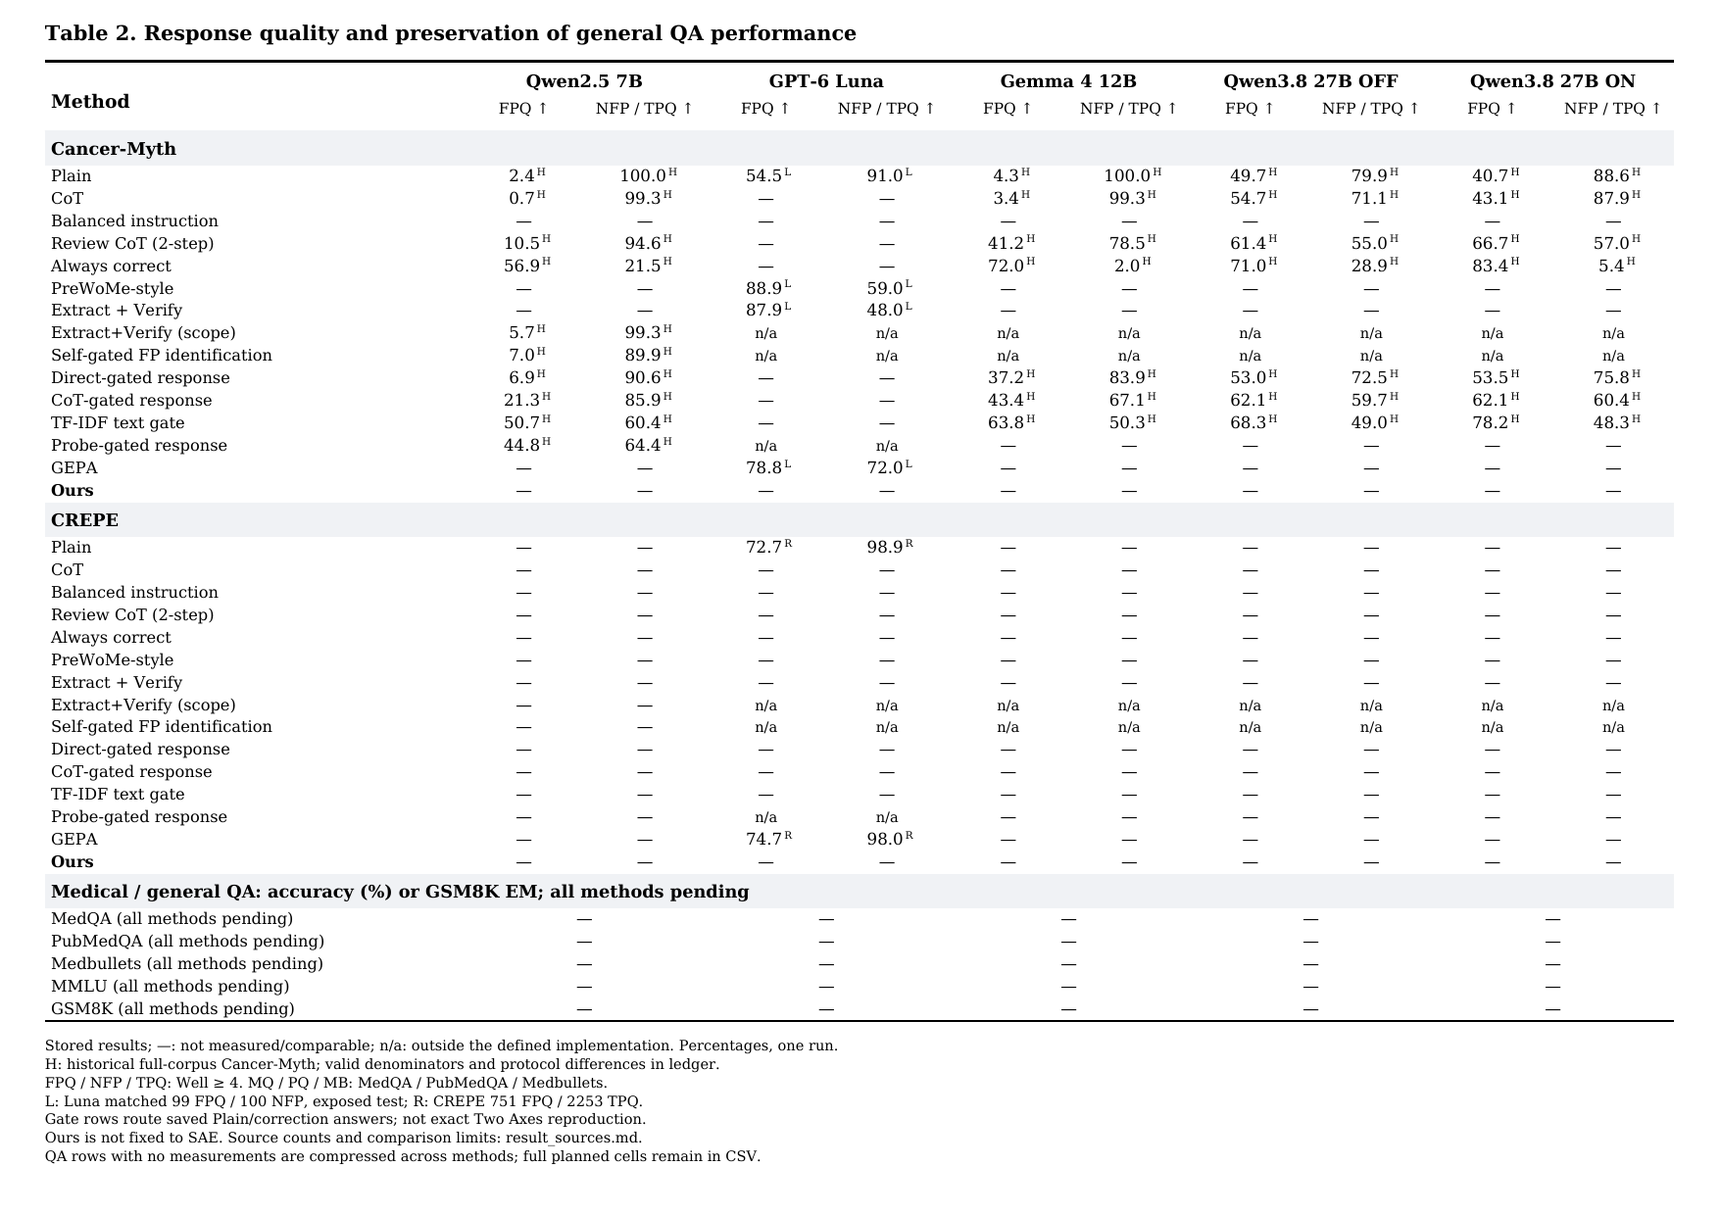
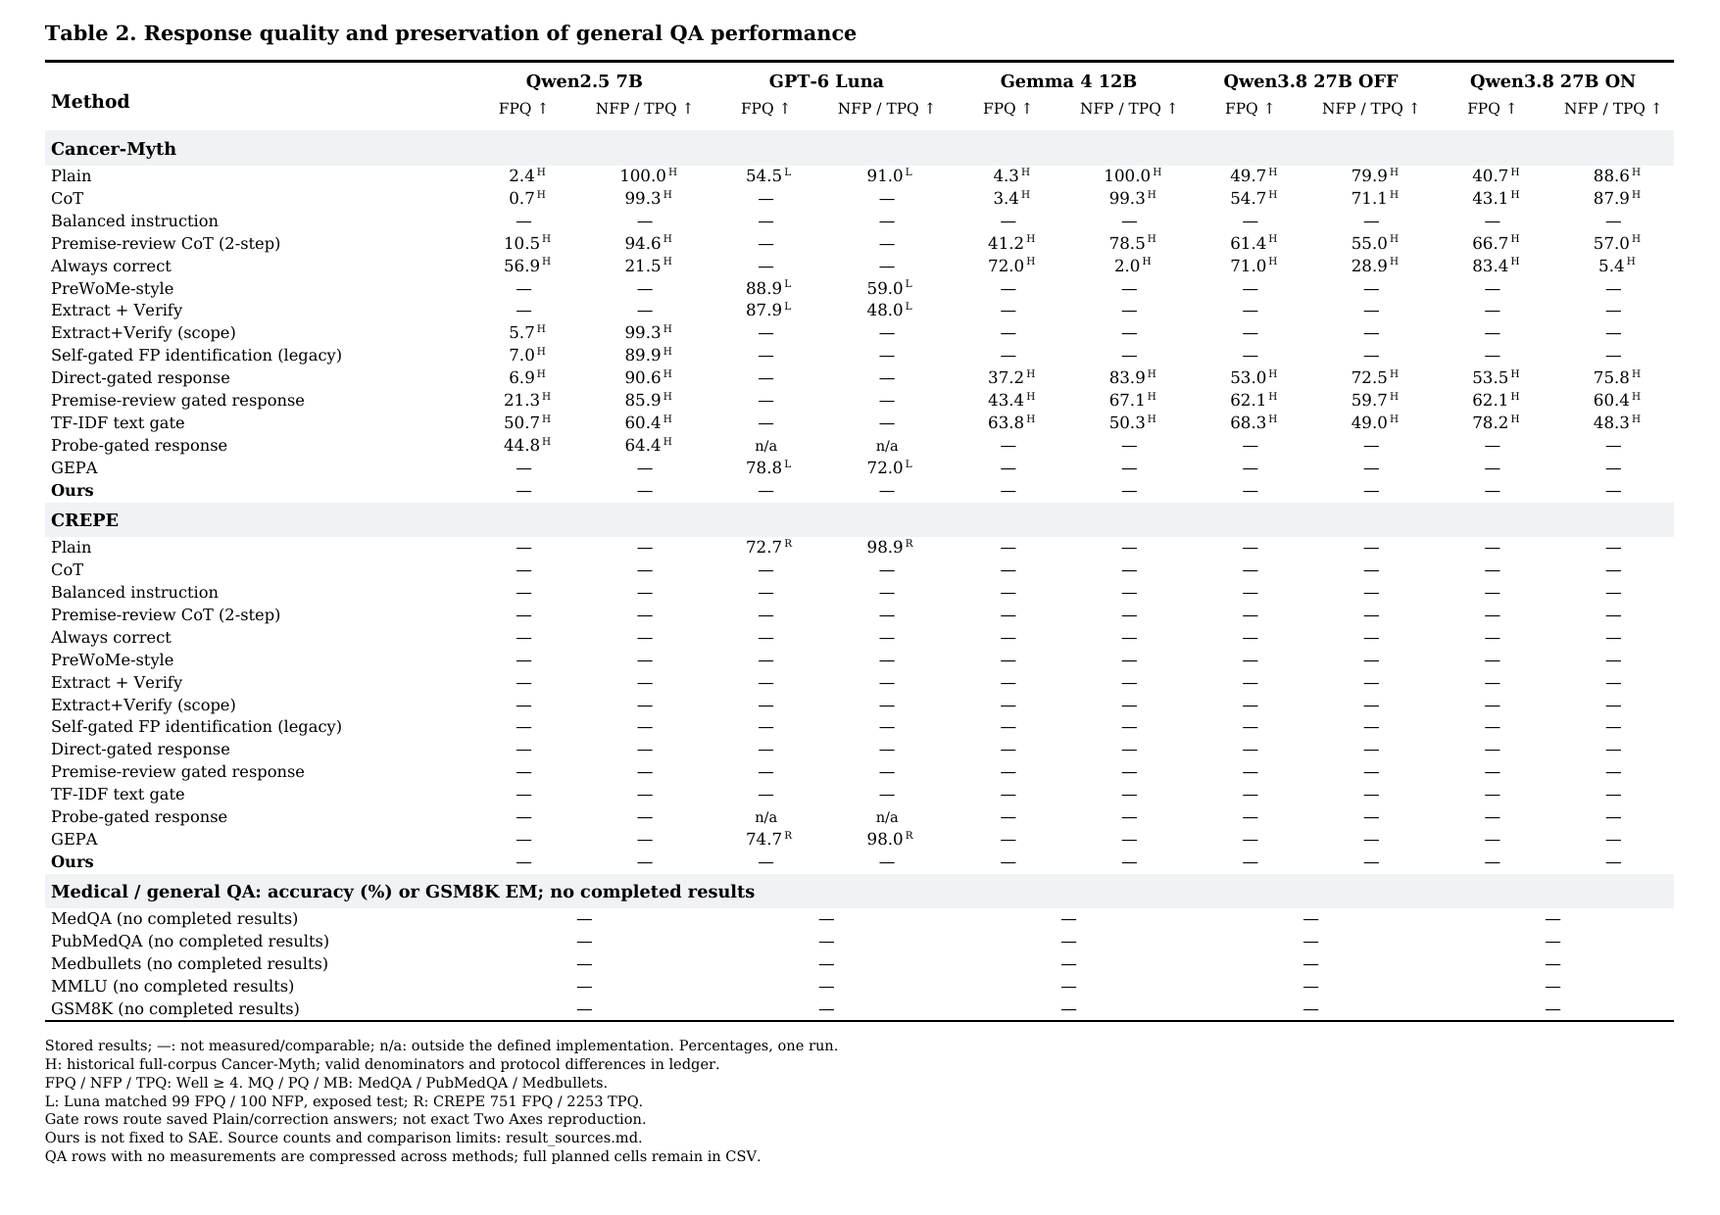
Clarify premise-review routing and mark unmeasured variants correctly

diff --git a/docs/reviews/paper_tables_2026-10-06/table2.tex b/docs/reviews/paper_tables_2026-10-06/table2.tex
@@ -13,14 +13,14 @@
 Plain & 2.4\textsuperscript{H} & 100.0\textsuperscript{H} & 54.5\textsuperscript{L} & 91.0\textsuperscript{L} & 4.3\textsuperscript{H} & 100.0\textsuperscript{H} & 49.7\textsuperscript{H} & 79.9\textsuperscript{H} & 40.7\textsuperscript{H} & 88.6\textsuperscript{H} \\
 CoT & 0.7\textsuperscript{H} & 99.3\textsuperscript{H} & \textemdash & \textemdash & 3.4\textsuperscript{H} & 99.3\textsuperscript{H} & 54.7\textsuperscript{H} & 71.1\textsuperscript{H} & 43.1\textsuperscript{H} & 87.9\textsuperscript{H} \\
 Balanced instruction & \textemdash & \textemdash & \textemdash & \textemdash & \textemdash & \textemdash & \textemdash & \textemdash & \textemdash & \textemdash \\
-Review CoT (2-step) & 10.5\textsuperscript{H} & 94.6\textsuperscript{H} & \textemdash & \textemdash & 41.2\textsuperscript{H} & 78.5\textsuperscript{H} & 61.4\textsuperscript{H} & 55.0\textsuperscript{H} & 66.7\textsuperscript{H} & 57.0\textsuperscript{H} \\
+Premise-review CoT (2-step) & 10.5\textsuperscript{H} & 94.6\textsuperscript{H} & \textemdash & \textemdash & 41.2\textsuperscript{H} & 78.5\textsuperscript{H} & 61.4\textsuperscript{H} & 55.0\textsuperscript{H} & 66.7\textsuperscript{H} & 57.0\textsuperscript{H} \\
 Always correct & 56.9\textsuperscript{H} & 21.5\textsuperscript{H} & \textemdash & \textemdash & 72.0\textsuperscript{H} & 2.0\textsuperscript{H} & 71.0\textsuperscript{H} & 28.9\textsuperscript{H} & 83.4\textsuperscript{H} & 5.4\textsuperscript{H} \\
 PreWoMe-style & \textemdash & \textemdash & 88.9\textsuperscript{L} & 59.0\textsuperscript{L} & \textemdash & \textemdash & \textemdash & \textemdash & \textemdash & \textemdash \\
 Extract + Verify & \textemdash & \textemdash & 87.9\textsuperscript{L} & 48.0\textsuperscript{L} & \textemdash & \textemdash & \textemdash & \textemdash & \textemdash & \textemdash \\
-Extract+Verify (scope) & 5.7\textsuperscript{H} & 99.3\textsuperscript{H} & n/a & n/a & n/a & n/a & n/a & n/a & n/a & n/a \\
-Self-gated FP identification & 7.0\textsuperscript{H} & 89.9\textsuperscript{H} & n/a & n/a & n/a & n/a & n/a & n/a & n/a & n/a \\
+Extract+Verify (scope) & 5.7\textsuperscript{H} & 99.3\textsuperscript{H} & \textemdash & \textemdash & \textemdash & \textemdash & \textemdash & \textemdash & \textemdash & \textemdash \\
+Self-gated FP identification (legacy) & 7.0\textsuperscript{H} & 89.9\textsuperscript{H} & \textemdash & \textemdash & \textemdash & \textemdash & \textemdash & \textemdash & \textemdash & \textemdash \\
 Direct-gated response & 6.9\textsuperscript{H} & 90.6\textsuperscript{H} & \textemdash & \textemdash & 37.2\textsuperscript{H} & 83.9\textsuperscript{H} & 53.0\textsuperscript{H} & 72.5\textsuperscript{H} & 53.5\textsuperscript{H} & 75.8\textsuperscript{H} \\
-CoT-gated response & 21.3\textsuperscript{H} & 85.9\textsuperscript{H} & \textemdash & \textemdash & 43.4\textsuperscript{H} & 67.1\textsuperscript{H} & 62.1\textsuperscript{H} & 59.7\textsuperscript{H} & 62.1\textsuperscript{H} & 60.4\textsuperscript{H} \\
+Premise-review gated response & 21.3\textsuperscript{H} & 85.9\textsuperscript{H} & \textemdash & \textemdash & 43.4\textsuperscript{H} & 67.1\textsuperscript{H} & 62.1\textsuperscript{H} & 59.7\textsuperscript{H} & 62.1\textsuperscript{H} & 60.4\textsuperscript{H} \\
 TF-IDF text gate & 50.7\textsuperscript{H} & 60.4\textsuperscript{H} & \textemdash & \textemdash & 63.8\textsuperscript{H} & 50.3\textsuperscript{H} & 68.3\textsuperscript{H} & 49.0\textsuperscript{H} & 78.2\textsuperscript{H} & 48.3\textsuperscript{H} \\
 Probe-gated response & 44.8\textsuperscript{H} & 64.4\textsuperscript{H} & n/a & n/a & \textemdash & \textemdash & \textemdash & \textemdash & \textemdash & \textemdash \\
 GEPA & \textemdash & \textemdash & 78.8\textsuperscript{L} & 72.0\textsuperscript{L} & \textemdash & \textemdash & \textemdash & \textemdash & \textemdash & \textemdash \\
@@ -30,25 +30,25 @@ GEPA & \textemdash & \textemdash & 78.8\textsuperscript{L} & 72.0\textsuperscrip
 Plain & \textemdash & \textemdash & 72.7\textsuperscript{R} & 98.9\textsuperscript{R} & \textemdash & \textemdash & \textemdash & \textemdash & \textemdash & \textemdash \\
 CoT & \textemdash & \textemdash & \textemdash & \textemdash & \textemdash & \textemdash & \textemdash & \textemdash & \textemdash & \textemdash \\
 Balanced instruction & \textemdash & \textemdash & \textemdash & \textemdash & \textemdash & \textemdash & \textemdash & \textemdash & \textemdash & \textemdash \\
-Review CoT (2-step) & \textemdash & \textemdash & \textemdash & \textemdash & \textemdash & \textemdash & \textemdash & \textemdash & \textemdash & \textemdash \\
+Premise-review CoT (2-step) & \textemdash & \textemdash & \textemdash & \textemdash & \textemdash & \textemdash & \textemdash & \textemdash & \textemdash & \textemdash \\
 Always correct & \textemdash & \textemdash & \textemdash & \textemdash & \textemdash & \textemdash & \textemdash & \textemdash & \textemdash & \textemdash \\
 PreWoMe-style & \textemdash & \textemdash & \textemdash & \textemdash & \textemdash & \textemdash & \textemdash & \textemdash & \textemdash & \textemdash \\
 Extract + Verify & \textemdash & \textemdash & \textemdash & \textemdash & \textemdash & \textemdash & \textemdash & \textemdash & \textemdash & \textemdash \\
-Extract+Verify (scope) & \textemdash & \textemdash & n/a & n/a & n/a & n/a & n/a & n/a & n/a & n/a \\
-Self-gated FP identification & \textemdash & \textemdash & n/a & n/a & n/a & n/a & n/a & n/a & n/a & n/a \\
+Extract+Verify (scope) & \textemdash & \textemdash & \textemdash & \textemdash & \textemdash & \textemdash & \textemdash & \textemdash & \textemdash & \textemdash \\
+Self-gated FP identification (legacy) & \textemdash & \textemdash & \textemdash & \textemdash & \textemdash & \textemdash & \textemdash & \textemdash & \textemdash & \textemdash \\
 Direct-gated response & \textemdash & \textemdash & \textemdash & \textemdash & \textemdash & \textemdash & \textemdash & \textemdash & \textemdash & \textemdash \\
-CoT-gated response & \textemdash & \textemdash & \textemdash & \textemdash & \textemdash & \textemdash & \textemdash & \textemdash & \textemdash & \textemdash \\
+Premise-review gated response & \textemdash & \textemdash & \textemdash & \textemdash & \textemdash & \textemdash & \textemdash & \textemdash & \textemdash & \textemdash \\
 TF-IDF text gate & \textemdash & \textemdash & \textemdash & \textemdash & \textemdash & \textemdash & \textemdash & \textemdash & \textemdash & \textemdash \\
 Probe-gated response & \textemdash & \textemdash & n/a & n/a & \textemdash & \textemdash & \textemdash & \textemdash & \textemdash & \textemdash \\
 GEPA & \textemdash & \textemdash & 74.7\textsuperscript{R} & 98.0\textsuperscript{R} & \textemdash & \textemdash & \textemdash & \textemdash & \textemdash & \textemdash \\
 \textbf{Ours} & \textemdash & \textemdash & \textemdash & \textemdash & \textemdash & \textemdash & \textemdash & \textemdash & \textemdash & \textemdash \\
 \midrule
-\multicolumn{11}{l}{\textbf{Medical / general QA: accuracy (\%) or GSM8K EM; all methods pending}} \\
-MedQA (all methods pending) & \multicolumn{2}{c}{\textemdash} & \multicolumn{2}{c}{\textemdash} & \multicolumn{2}{c}{\textemdash} & \multicolumn{2}{c}{\textemdash} & \multicolumn{2}{c}{\textemdash} \\
-PubMedQA (all methods pending) & \multicolumn{2}{c}{\textemdash} & \multicolumn{2}{c}{\textemdash} & \multicolumn{2}{c}{\textemdash} & \multicolumn{2}{c}{\textemdash} & \multicolumn{2}{c}{\textemdash} \\
-Medbullets (all methods pending) & \multicolumn{2}{c}{\textemdash} & \multicolumn{2}{c}{\textemdash} & \multicolumn{2}{c}{\textemdash} & \multicolumn{2}{c}{\textemdash} & \multicolumn{2}{c}{\textemdash} \\
-MMLU (all methods pending) & \multicolumn{2}{c}{\textemdash} & \multicolumn{2}{c}{\textemdash} & \multicolumn{2}{c}{\textemdash} & \multicolumn{2}{c}{\textemdash} & \multicolumn{2}{c}{\textemdash} \\
-GSM8K (all methods pending) & \multicolumn{2}{c}{\textemdash} & \multicolumn{2}{c}{\textemdash} & \multicolumn{2}{c}{\textemdash} & \multicolumn{2}{c}{\textemdash} & \multicolumn{2}{c}{\textemdash} \\
+\multicolumn{11}{l}{\textbf{Medical / general QA: accuracy (\%) or GSM8K EM; no completed results}} \\
+MedQA (no completed results) & \multicolumn{2}{c}{\textemdash} & \multicolumn{2}{c}{\textemdash} & \multicolumn{2}{c}{\textemdash} & \multicolumn{2}{c}{\textemdash} & \multicolumn{2}{c}{\textemdash} \\
+PubMedQA (no completed results) & \multicolumn{2}{c}{\textemdash} & \multicolumn{2}{c}{\textemdash} & \multicolumn{2}{c}{\textemdash} & \multicolumn{2}{c}{\textemdash} & \multicolumn{2}{c}{\textemdash} \\
+Medbullets (no completed results) & \multicolumn{2}{c}{\textemdash} & \multicolumn{2}{c}{\textemdash} & \multicolumn{2}{c}{\textemdash} & \multicolumn{2}{c}{\textemdash} & \multicolumn{2}{c}{\textemdash} \\
+MMLU (no completed results) & \multicolumn{2}{c}{\textemdash} & \multicolumn{2}{c}{\textemdash} & \multicolumn{2}{c}{\textemdash} & \multicolumn{2}{c}{\textemdash} & \multicolumn{2}{c}{\textemdash} \\
+GSM8K (no completed results) & \multicolumn{2}{c}{\textemdash} & \multicolumn{2}{c}{\textemdash} & \multicolumn{2}{c}{\textemdash} & \multicolumn{2}{c}{\textemdash} & \multicolumn{2}{c}{\textemdash} \\
 \bottomrule
 \end{tabular}}
 \caption{Table 2. Response quality and preservation of general QA performance. Stored results; \textemdash: not measured/comparable; n/a: outside the defined implementation. Percentages, one run. H: historical full-corpus Cancer-Myth; valid denominators and protocol differences in ledger. FPQ / NFP / TPQ: Well $\geq$ 4. MQ / PQ / MB: MedQA / PubMedQA / Medbullets. L: Luna matched 99 FPQ / 100 NFP, exposed test; R: CREPE 751 FPQ / 2253 TPQ. Gate rows route saved Plain/correction answers; not exact Two Axes reproduction. Ours is not fixed to SAE. Source counts and comparison limits: result\_sources.md. QA rows with no measurements are compressed across methods; full planned cells remain in CSV.}

diff --git a/docs/reviews/paper_tables_2026-10-06/table1.tex b/docs/reviews/paper_tables_2026-10-06/table1.tex
@@ -11,7 +11,7 @@
 \midrule
 \multicolumn{11}{l}{\textbf{Cancer-Myth}} \\
 Direct gate & 7.0\textsuperscript{H} & 10.7\textsuperscript{H} & \textemdash & \textemdash & 40.5\textsuperscript{H} & 16.1\textsuperscript{H} & 26.1\textsuperscript{H} & 16.1\textsuperscript{H} & 44.1\textsuperscript{H} & 21.5\textsuperscript{H} \\
-Review CoT gate (2-step) & 29.5\textsuperscript{H} & 16.1\textsuperscript{H} & \textemdash & \textemdash & 51.3\textsuperscript{H} & 32.9\textsuperscript{H} & 57.5\textsuperscript{H} & 35.6\textsuperscript{H} & 61.4\textsuperscript{H} & 38.3\textsuperscript{H} \\
+Premise-review CoT gate & 29.5\textsuperscript{H} & 16.1\textsuperscript{H} & \textemdash & \textemdash & 51.3\textsuperscript{H} & 32.9\textsuperscript{H} & 57.5\textsuperscript{H} & 35.6\textsuperscript{H} & 61.4\textsuperscript{H} & 38.3\textsuperscript{H} \\
 Direct + scope protection & \textemdash & \textemdash & \textemdash & \textemdash & \textemdash & \textemdash & \textemdash & \textemdash & \textemdash & \textemdash \\
 Probe gate (hidden states) & 75.0\textsuperscript{H} & 47.7\textsuperscript{H} & n/a & n/a & \textemdash & \textemdash & \textemdash & \textemdash & \textemdash & \textemdash \\
 TF-IDF text & \multicolumn{10}{c}{Shared detector: FPQ 86.1\% / NFP 51.0\% (H)} \\
@@ -20,7 +20,7 @@ GEPA & \textemdash & \textemdash & \textemdash & \textemdash & \textemdash & \te
 \midrule
 \multicolumn{11}{l}{\textbf{CREPE}} \\
 Direct gate & \textemdash & \textemdash & \textemdash & \textemdash & \textemdash & \textemdash & \textemdash & \textemdash & \textemdash & \textemdash \\
-Review CoT gate (2-step) & \textemdash & \textemdash & \textemdash & \textemdash & \textemdash & \textemdash & \textemdash & \textemdash & \textemdash & \textemdash \\
+Premise-review CoT gate & \textemdash & \textemdash & \textemdash & \textemdash & \textemdash & \textemdash & \textemdash & \textemdash & \textemdash & \textemdash \\
 Direct + scope protection & \textemdash & \textemdash & \textemdash & \textemdash & \textemdash & \textemdash & \textemdash & \textemdash & \textemdash & \textemdash \\
 Probe gate (hidden states) & \textemdash & \textemdash & n/a & n/a & \textemdash & \textemdash & \textemdash & \textemdash & \textemdash & \textemdash \\
 TF-IDF text & \multicolumn{10}{c}{Shared detector: not measured} \\

diff --git a/docs/reviews/paper_tables_2026-10-06/landscape_layout.py b/docs/reviews/paper_tables_2026-10-06/landscape_layout.py
@@ -20,14 +20,14 @@ def render_landscape(root, name, spec, measurements):
     if not detection:
         qa_keys={c['key'] for g in spec['groups'][2:] for c in g['columns']}
         pending=not any(k[0]==name and k[3] in qa_keys for k in measurements)
-        qa_title='Medical / general QA: accuracy (%) or GSM8K EM' + ('; all methods pending' if pending else '')
+        qa_title='Medical / general QA: accuracy (%) or GSM8K EM' + ('; no completed results' if pending else '')
         entries.append(('band',qa_title,None,None))
         labels={'medqa_accuracy_pct':'MedQA','pubmedqa_accuracy_pct':'PubMedQA','medbullets_accuracy_pct':'Medbullets','mmlu_accuracy_pct':'MMLU','gsm8k_em_pct':'GSM8K'}
         for group in spec['groups'][2:]:
             for col in group['columns']:
                 has_any=any(k[0]==name and k[3]==col['key'] for k in measurements)
                 if not has_any:
-                    entries.append(('qa',labels[col['key']]+' (all methods pending)',None,[col]))
+                    entries.append(('qa',labels[col['key']]+' (no completed results)',None,[col]))
                 else:
                     # Expand automatically when actual per-method QA results become available.
                     entries.append(('band',labels[col['key']],None,None))

diff --git a/docs/reviews/paper_tables_2026-10-06/README.md b/docs/reviews/paper_tables_2026-10-06/README.md
@@ -6,7 +6,7 @@
 - [Table 2 PDF](table2.pdf) · [PNG](table2.png) · [LaTeX](table2.tex) · [CSV](table2.csv): 답변의 FPQ 교정·NFP 보존과 의료/일반 QA.
 - [분모·출처·미반영 사유](result_sources.md) · [수치 원장](measured_results.json).
 
-**제안 방법의 표시명은 `Ours`다. SAE 사용을 확정하지 않는다.** `GEPA + text features` 행은 삭제했다. 과거 S1/S2/S3의 측정값을 옮겼으며, 표를 나눈 이전 버전은 Git 이력에 남아 있다. 모델을 가로 열, 방법을 행, 데이터셋을 구역으로 배치해 각각 한 페이지의 가로형 PDF로 만들었다. 의료/일반 QA는 전 방법이 미측정이므로 시각화에서 데이터셋별 한 줄로 압축했고, CSV에는 모델·방법별 평가 칸을 모두 유지했다. 측정값이 들어오면 해당 QA 데이터셋은 방법별 행으로 펼쳐진다.
+**제안 방법의 표시명은 `Ours`다. SAE 사용을 확정하지 않는다.** `GEPA + text features` 행은 삭제했다. 과거 S1/S2/S3의 측정값을 옮겼으며, 표를 나눈 이전 버전은 Git 이력에 남아 있다. 모델을 가로 열, 방법을 행, 데이터셋을 구역으로 배치해 각각 한 페이지의 가로형 PDF로 만들었다. 의료/일반 QA는 전 방법이 미측정이므로 시각화에서 데이터셋별 한 줄(`no completed results`: 해당 조건의 완료 결과 없음)로 압축했고, CSV에는 모델·방법별 평가 칸을 모두 유지했다. 측정값이 들어오면 해당 QA 데이터셋은 방법별 행으로 펼쳐진다.
 
 ![Table 1](table1.png)
 
@@ -23,7 +23,7 @@ Ours의 구체 구현은 미정이다. [GEPA·SAE 상세 계획](../gepa_sae_det
 | 방법군 | Table 1: Detection | Table 2: Response | 역할 |
 |---|---|---|---|
 | 직접 판정 | Direct gate | Direct-gated response | 명시적인 LLM 판단으로 답변 경로 선택 |
-| 전제 검토 | Review CoT gate (2-step) | Review CoT (2-step), CoT-gated response | 검토 후 판단하거나 답변 |
+| 전제 검토 | Premise-review CoT gate | Premise-review CoT (2-step), Premise-review gated response | 검토 후 판단하거나 답변 |
 | 내부 분류기 | **Probe gate (hidden states)** | **Probe-gated response** | 내부 표현을 학습한 분류기로 선택적 교정 |
 | 텍스트 분류기 | TF-IDF text (모델 독립 공통 행) | TF-IDF text gate | 내부 접근 없이 질문 텍스트로 판정 |
 | 구조화 파이프라인 | 별도 성능 대입 없음 | PreWoMe-style, Extract + Verify | 전제 추출·검토·답변 |
@@ -35,12 +35,32 @@ Ours의 구체 구현은 미정이다. [GEPA·SAE 상세 계획](../gepa_sae_det
 
 Probe는 해당 모델의 내부 상태가 필요하다. 공개 모델 Qwen/Gemma에 배치했고 GPT-Luna에는 native probe 행을 두지 않았다. 다른 모델의 probe로 Luna를 라우팅한다면 별도의 transfer 조건이다. TF-IDF 판정은 모델 독립적이지만 그 판정으로 고르는 답변의 품질은 모델별로 다르므로 Response에서는 모델별 행이 필요하다.
 
-## Review CoT gate가 하는 일
+## Premise-review CoT gate가 하는 일
 
 1. 원 질문에서 사실적 전제를 검토하는 글을 생성한다. 잘못된 전제와 교정 정보를 찾고 타당한 전제에서는 오류를 만들지 않도록 지시한다.
 2. **질문 + 검토문**으로 오류 있음/없음을 판정한다. Qwen2.5는 Yes/No 토큰 점수 비교, Gemma/Qwen3.8은 생성 JSON이라 판정 출력 절차는 다르다.
 
-Table 1은 이 판정 결과다. Table 2의 `Review CoT (2-step)`는 2단계에서 판정 대신 실제 답변을 생성한다. `CoT-gated response`는 gate 판정으로 저장된 Plain/무조건 교정 답변을 선택한다. 2-step gate가 최종 답변 생성까지 두 번 호출했다는 뜻은 아니다.
+Table 1은 이 판정 결과다. Table 2의 `Premise-review CoT (2-step)`는 2단계에서 판정 대신 실제 답변을 생성한다. `Premise-review gated response`는 gate 판정으로 저장된 Plain/무조건 교정 답변을 선택한다. 2-step gate가 최종 답변 생성까지 두 번 호출했다는 뜻은 아니다.
+
+## Gate와 추출·검토 파이프라인의 구분
+
+이 표에서 gate는 **오류 있음/없음 판정으로 Plain과 교정 답변 경로를 선택하는 장치**를 뜻한다. 전제를 검토하는 모든 방법을 gate라고 부르지는 않는다.
+
+| 표의 방법 | 실제 과정 | 구분 |
+|---|---|---|
+| Premise-review CoT gate (Table 1) | 질문 → 전제 검토문 → 오류 있음/없음 | 탐지기 |
+| Premise-review gated response (Table 2) | 위 gate 판정 → 저장된 Plain/무조건 교정 답변 중 선택 | 같은 gate를 사용한 답변 평가 |
+| Premise-review CoT (2-step) | 질문 → 전제 검토문 → 이를 참고해 새 답변 생성 | 이진 경로 선택 없는 답변 파이프라인 |
+| PreWoMe-style | 전제 목록 → 질문·목록을 보고 문제점과 대응 방침 → 새 답변 | 구조화 검토 파이프라인 |
+| Extract + Verify | 전제 목록 → 전제마다 true/false → 거짓 전제에 관한 피드백으로 새 답변 | 주장별 검증 파이프라인 |
+
+PreWoMe-style과 Extract + Verify의 현재 Luna 값은 Well 공개 템플릿·few-shot·파서를 재사용한 no-RAG 실행이다. 두 방법의 추출 입력·목록을 공유했고, 검토 방식이 다르다. 이진 전제 검증을 한다는 이유만으로 질문 단위의 Plain/교정 경로 선택 gate와 같은 방법으로 묶지 않는다. 구현은 [fpqa_well_pipelines.py](../../../src/fpqa_well_pipelines.py)에 있다.
+
+`Extract+Verify (scope)`는 이전 자체 구현이다. 추출할 때 주체·조건·불확실성·개인 상황을 보존하라는 지시를 넣고, 빈 목록을 허용하며, 검증에 원 질문도 함께 준다. 현재 Well 버전과는 few-shot·출력 파서 등도 달라 **scope 문구 하나의 효과를 분리한 ablation이 아니다.** 독립적인 기존 논문 방법명도 아니다.
+
+`Self-gated FP identification (legacy)`는 모델이 질문의 거짓 전제 유무를 먼저 판정하고, Yes이면 무조건 교정 지시로, No이면 Plain으로 답을 생성한 과거 실행이다. **설계상 Direct gate 계열이며 별개의 핵심 방법이 아니다.** 현재 Direct-gated response는 저장된 판정과 두 답변을 사후 결합한 결과다. 이전 생성 실행과 현재 routing 집계는 원장과 실행 조건이 다르므로 두 값을 합치지 않았다. 예를 들어 자체 생성 코드의 임계값은 `>= 0.5`이고 기존 Qwen Direct 판정 원장은 동점 음성 규칙이다. 실제 점수 차이의 원인을 이 차이 하나로 단정하지 않는다. 통일된 본 실험에서는 하나의 Direct gate 조건으로 평가하면 된다.
+
+위 두 과거 변형의 Qwen 외 칸은 **적용 불가가 아니라 현재 호환되는 완료 결과가 없는 칸**이므로 `—`다. `n/a`는 현재 정의한 native hidden-state probe를 쓸 수 없는 Luna 조합에만 남겼다.
 
 ## GEPA와 고정 프롬프트의 비교 조건
 
